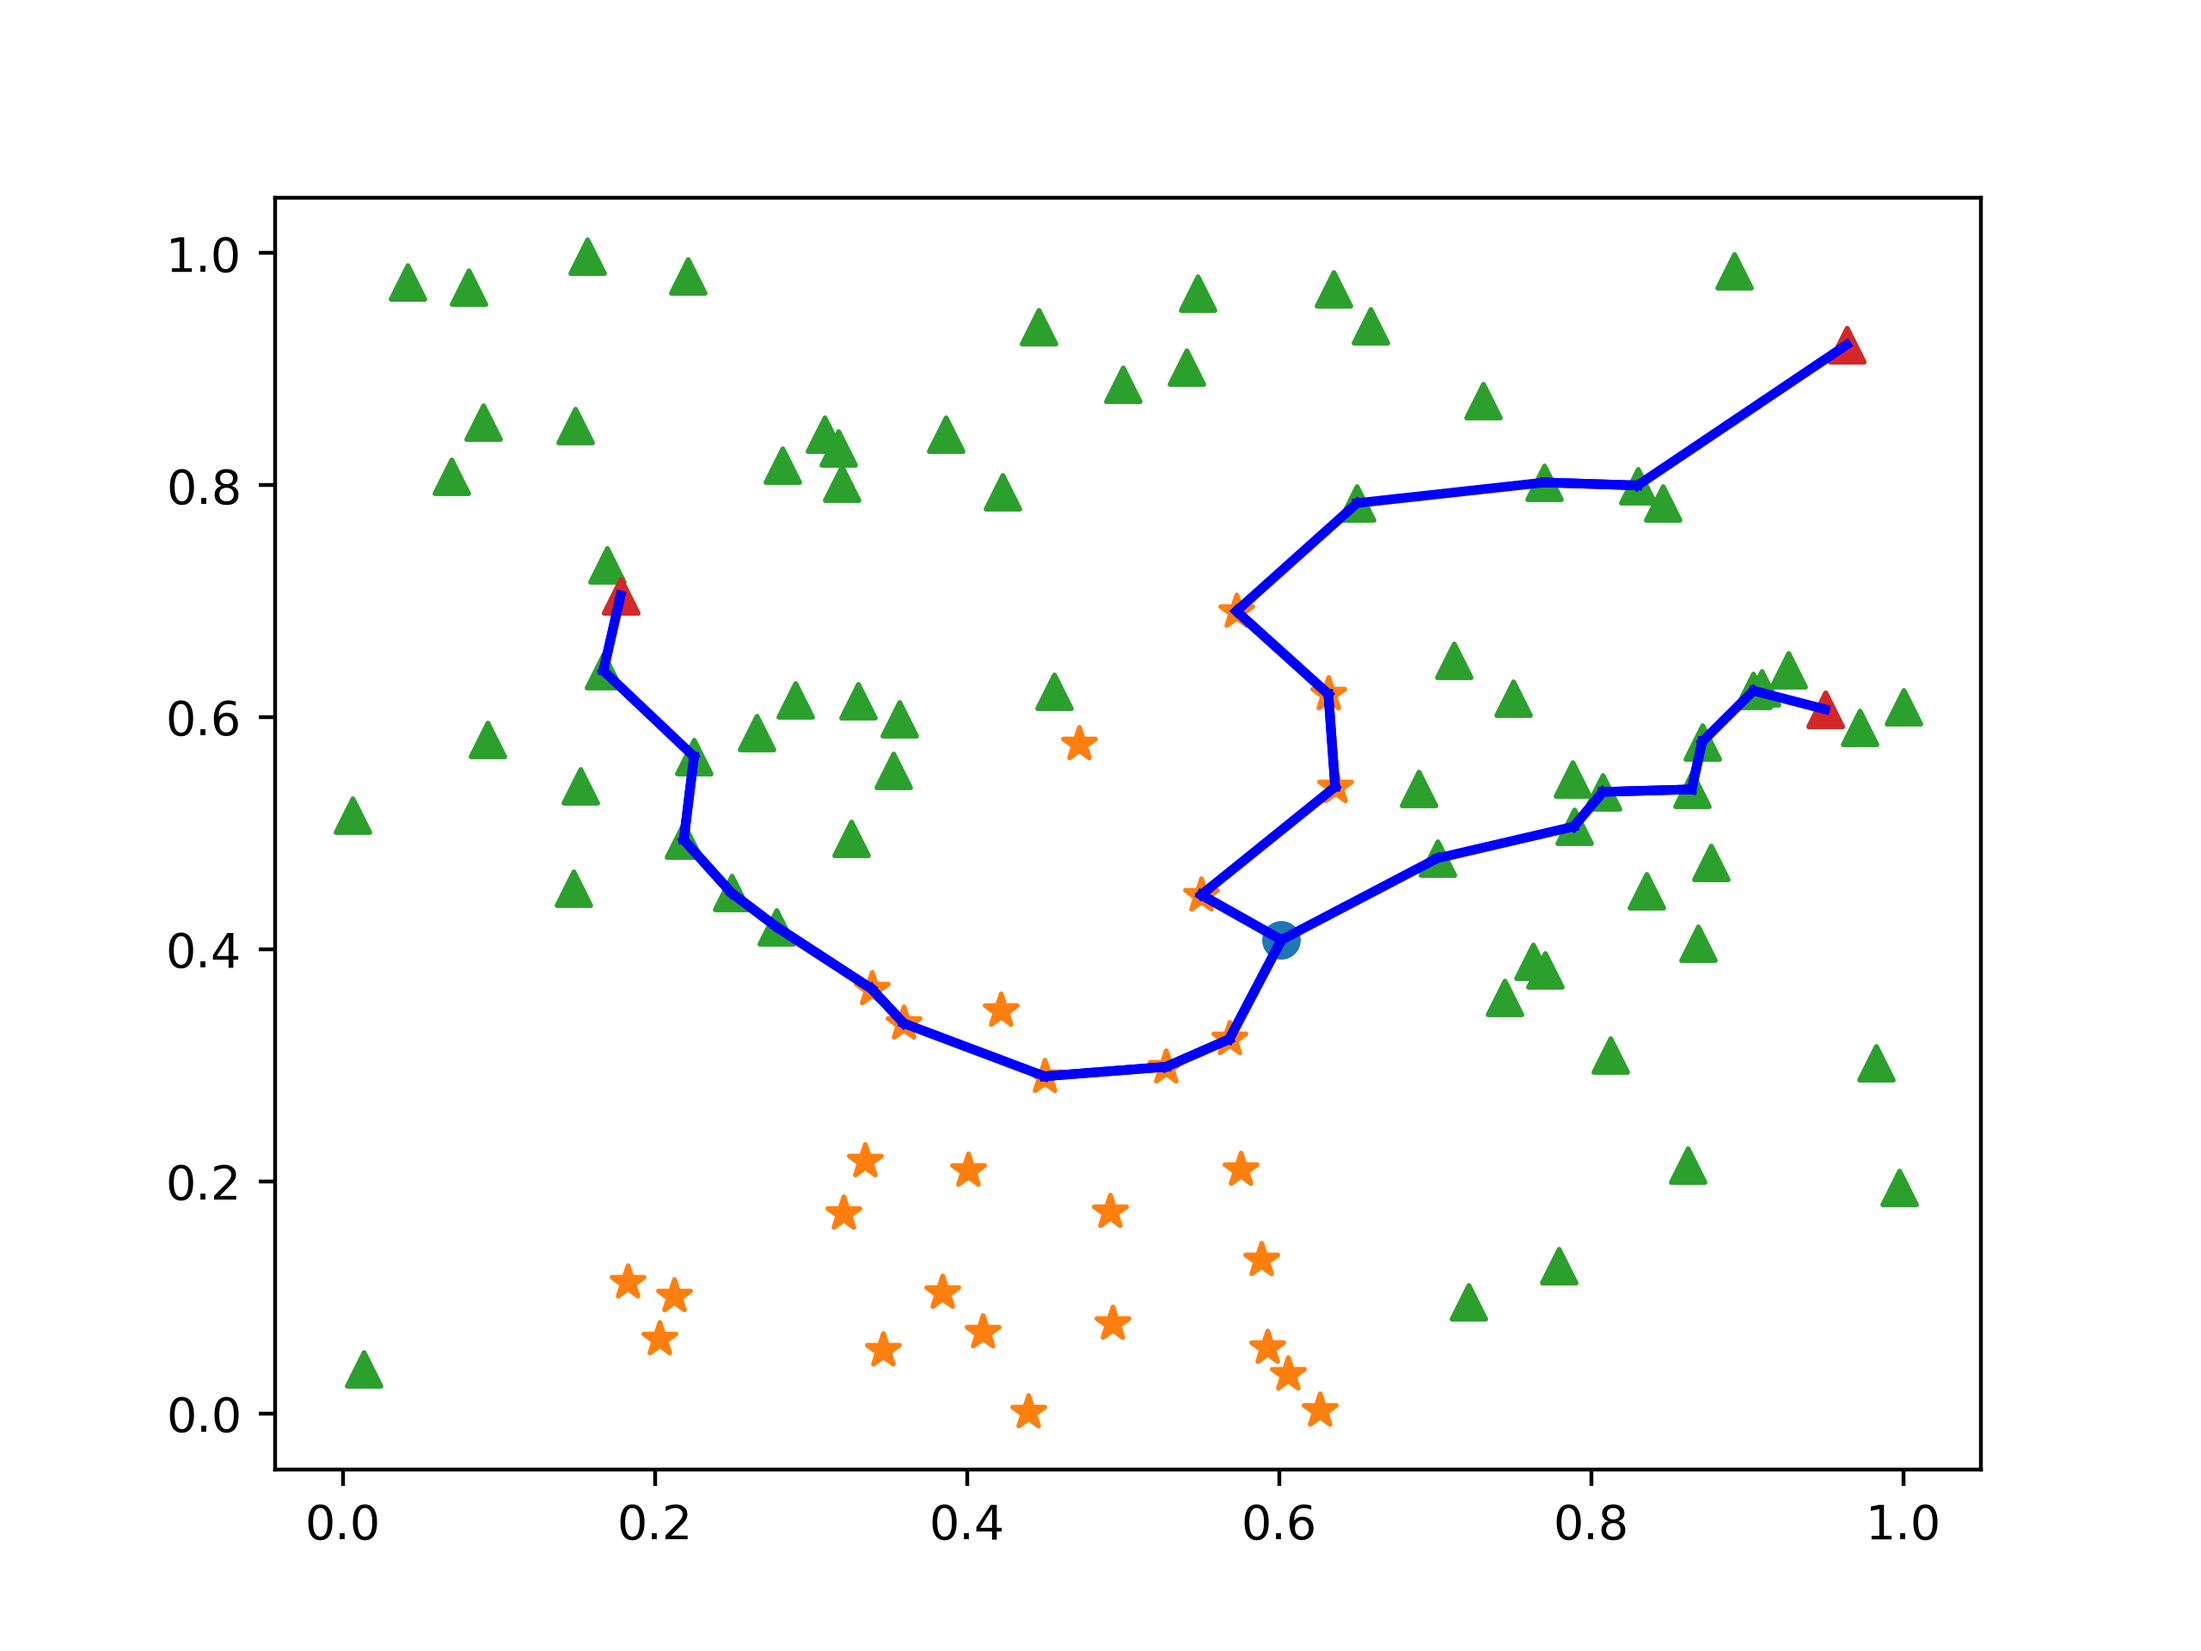
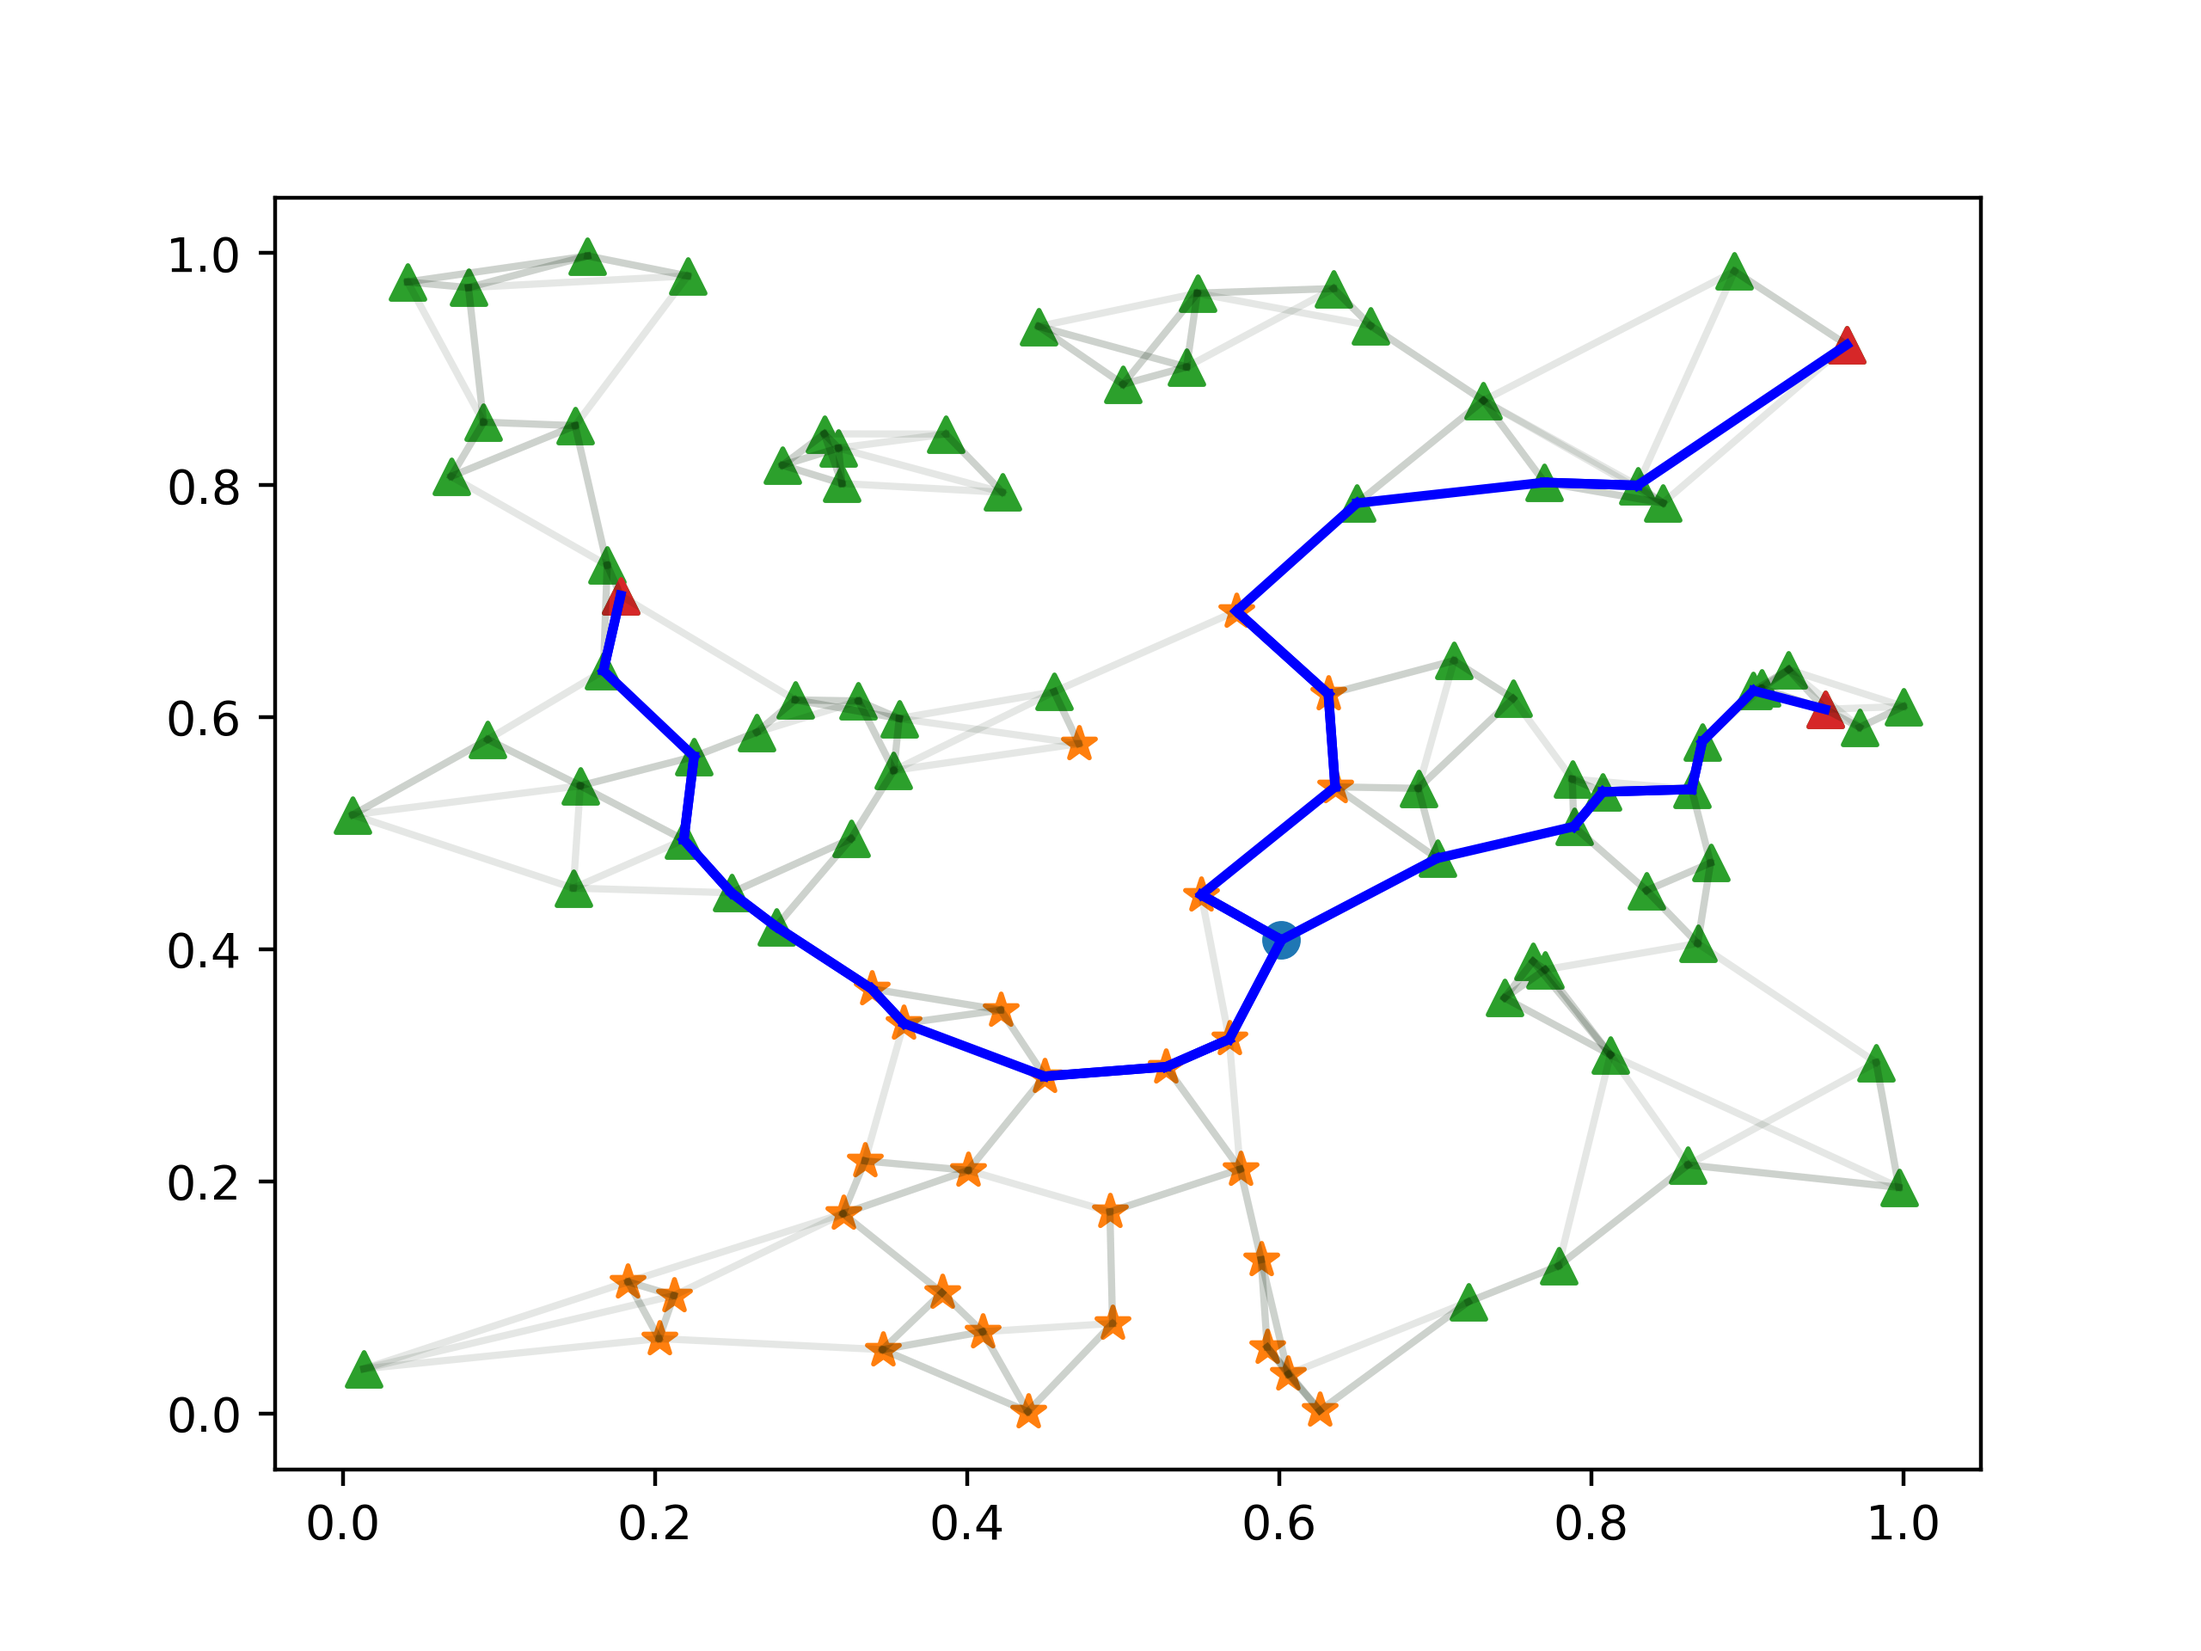
sf

diff --git a/test_flow.py b/test_flow.py
@@ -77,6 +77,22 @@ selected_points = train_data[labels==1][mask, :]
 nbrs = NearestNeighbors(n_neighbors=4).fit(train_data_)
 distances, indices = nbrs.kneighbors(train_data_)
 graph = nbrs.kneighbors_graph(train_data_)
+print(graph, indices)
+count_labs = {}
+for i in range(indices.shape[0]):
+    count_labs[i] = 0
+    for j in range(1, indices.shape[1]):
+        if labels_[i] == 1 and labels_[indices[i][j]] == 1:
+            count_labs[i] += 1
+
+selected = []
+for i in range(indices.shape[0]):
+    if count_labs[i] != 3:
+        selected.append(i)
+print(count_labs, selected)
+print(train_data_[selected])
+print(labels_[selected])
+exit()
 
 weighted_graph = np.zeros(graph.shape)
 links = grb.tuplelist()
@@ -99,18 +115,18 @@ nodes[0].accumulation = 3   # Set constraint for source node
 for i in range(len(destination)):
     nodes[destination[i]].accumulation = -1
 
-# for i in range(graph.shape[0]):
-#     for j in range(1, indices.shape[1]):
-#         if [train_data_[i][0], train_data_[indices[i][j]][0], train_data_[i][1], train_data_[indices[i][j]][1]] not in total_edges:
-#             total_edges.append([train_data_[i][0], train_data_[indices[i][j]][0], train_data_[i][1], train_data_[indices[i][j]][1]])
-        # if (i, indices[i][j]) not in links:
-        #     links.append((i, indices[i][j]))
-        #     links.append((indices[i][j], i))
-        #     dist = tau * distances[i][j] if (labels_[i] == 0 or labels_[j] == 0) else (1 - tau) * distances[i][j]
-            # cost[i, indices[i][j]] = dist
-            # cost[indices[i][j], i] = dist
-        # weighted_graph[i][indices[i][j]] = distances[i][j]
-        # weighted_graph[indices[i][j]][i] = distances[i][j]
+for i in range(graph.shape[0]):
+    for j in range(1, indices.shape[1]):
+        if [train_data_[i][0], train_data_[indices[i][j]][0], train_data_[i][1], train_data_[indices[i][j]][1]] not in total_edges:
+            total_edges.append([train_data_[i][0], train_data_[indices[i][j]][0], train_data_[i][1], train_data_[indices[i][j]][1]])
+        if (i, indices[i][j]) not in links:
+            links.append((i, indices[i][j]))
+            links.append((indices[i][j], i))
+            dist = tau * distances[i][j] if (labels_[i] == 0 or labels_[j] == 0) else (1 - tau) * distances[i][j]
+            cost[i, indices[i][j]] = dist
+            cost[indices[i][j], i] = dist
+        weighted_graph[i][indices[i][j]] = distances[i][j]
+        weighted_graph[indices[i][j]][i] = distances[i][j]
 edges = []
 for i in range(graph.shape[0]):
     for j in range(1, indices.shape[1]):
@@ -169,8 +185,8 @@ print(result)
             # res_sum += weighted_graph[i][j]
             # res.append([train_data_[i][0], train_data_[j][0], train_data_[i][1], train_data_[j][1]])
 
-# for i in range(len(total_edges)):
-#     plt.plot([total_edges[i][0], total_edges[i][1]], [total_edges[i][2], total_edges[i][3]], color=(0, 0.1, 0, 0.1))  
+for i in range(len(total_edges)):
+    plt.plot([total_edges[i][0], total_edges[i][1]], [total_edges[i][2], total_edges[i][3]], color=(0, 0.1, 0, 0.1))  
 
 for i in range(len(res)):
     plt.plot([res[i][0], res[i][1]], [res[i][2], res[i][3]], color='b', linewidth=2.0)
